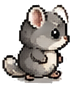
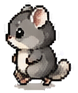
主人公の歩行スプライトの向きを修正し、どうぐ使用でなかまを選択できるようにする
- walk_left/right/upの各コマ画像が実際の向きと逆・不揃いだったため、
  正しい向き(左向き/右向き/背面)のファイル名に再配置(コード側のロジックは元々正しかった)
- フィールドメニューのどうぐ使用(回復アイテム・わざペレット)が主人公専用だったのを、
  手持ちのなかまがいる場合は対象を選べるモーダルを追加して選択制に変更

diff --git a/docs/app.js b/docs/app.js
@@ -1452,6 +1452,86 @@
   document.getElementById("battle-sub-back").addEventListener("click", closeSubMenu);
 
   // ---------------- Menu / Shop ----------------
+  function fieldPartyTargets() {
+    var heroStats = getMaxStats(state);
+    var list = [{
+      kind: "hero", id: "hero", name: state.name, level: state.level,
+      hp: state.hp, maxHp: heroStats.maxHp, mp: state.mp, maxMp: heroStats.maxMp, element: null
+    }];
+    state.activeParty.forEach(function (id) {
+      var ld = getCompanionLevelData(id);
+      var speciesId = currentCompanionSpeciesId(id, ld.level);
+      var mon = G.MONSTERS[speciesId];
+      var cstats = getCompanionMaxStats(id, ld.level);
+      list.push({
+        kind: "companion", id: id, name: mon.name, level: ld.level,
+        hp: ld.hp, maxHp: cstats.maxHp, mp: ld.mp, maxMp: cstats.maxMp, element: mon.element
+      });
+    });
+    return list;
+  }
+
+  function applyPotionItem(itemId, item, target) {
+    state.inventory[itemId] = Math.max(0, (state.inventory[itemId] || 0) - 1);
+    if (target.kind === "hero") {
+      if (item.kind === "hp") state.hp = Math.min(target.maxHp, state.hp + item.amount);
+      else if (item.kind === "mp") state.mp = Math.min(target.maxMp, state.mp + item.amount);
+      else if (item.kind === "full") { state.hp = target.maxHp; state.mp = target.maxMp; }
+    } else {
+      var ld = getCompanionLevelData(target.id);
+      if (item.kind === "hp") ld.hp = Math.min(target.maxHp, ld.hp + item.amount);
+      else if (item.kind === "mp") ld.mp = Math.min(target.maxMp, ld.mp + item.amount);
+      else if (item.kind === "full") { ld.hp = target.maxHp; ld.mp = target.maxMp; }
+    }
+    save(state);
+    showToast(target.name + " は " + item.name + " を つかった!");
+    updateHud();
+    refreshMenuData();
+  }
+
+  function applyPelletItem(itemId, item, target) {
+    var sk = G.SKILLS[item.skillId];
+    if (target.kind === "companion" && target.element !== item.element) {
+      showToast(target.name + " は この ペレットを たべられない…");
+      return;
+    }
+    var known = target.kind === "hero"
+      ? state.learnedSkills.indexOf(item.skillId) !== -1
+      : getCompanionSkills(target.id).indexOf(item.skillId) !== -1;
+    if (known) {
+      showToast(target.name + " は もう " + sk.name + " を おぼえている");
+      return;
+    }
+    state.inventory[itemId] = Math.max(0, (state.inventory[itemId] || 0) - 1);
+    if (target.kind === "hero") state.learnedSkills.push(item.skillId);
+    else getCompanionSkills(target.id).push(item.skillId);
+    save(state);
+    showToast(target.name + " は " + sk.name + " を おぼえた!");
+    updateHud();
+    refreshMenuData();
+  }
+
+  function openItemTargetPicker(itemId, item) {
+    var targets = fieldPartyTargets();
+    var applyFn = item.kind === "pellet" ? applyPelletItem : applyPotionItem;
+    if (targets.length <= 1) { applyFn(itemId, item, targets[0]); return; }
+    var listEl = document.getElementById("item-target-list");
+    listEl.innerHTML = "";
+    targets.forEach(function (t) {
+      var div = document.createElement("div");
+      div.className = "food-item";
+      div.innerHTML =
+        '<div class="food-info"><div><div class="food-name">' + t.name + " Lv" + t.level + '</div><div class="food-desc">HP ' + t.hp + "/" + t.maxHp + " ・ MP " + t.mp + "/" + t.maxMp + '</div></div></div>' +
+        "<button>" + (item.kind === "pellet" ? "たべさせる" : "つかう") + "</button>";
+      div.querySelector("button").addEventListener("click", function () {
+        closeModal("item-target-modal");
+        applyFn(itemId, item, t);
+      });
+      listEl.appendChild(div);
+    });
+    openModal("item-target-modal");
+  }
+
   function renderInventoryList(container) {
     container.innerHTML = "";
     G.USABLE_ITEM_IDS.forEach(function (id) {
@@ -1465,29 +1545,7 @@
       div.querySelector("button").addEventListener("click", function () {
         if (count <= 0) return;
         if (item.kind === "ball") { showToast("せんとうちゅうに つかってね"); return; }
-        if (item.kind === "pellet") {
-          var sk = G.SKILLS[item.skillId];
-          if (state.learnedSkills.indexOf(item.skillId) !== -1) {
-            showToast(state.name + " は もう " + sk.name + " を おぼえている");
-            return;
-          }
-          state.inventory[id] -= 1;
-          state.learnedSkills.push(item.skillId);
-          save(state);
-          showToast(state.name + " は " + sk.name + " を おぼえた!");
-          updateHud();
-          refreshMenuData();
-          return;
-        }
-        var stats = getMaxStats(state);
-        state.inventory[id] -= 1;
-        if (item.kind === "hp") state.hp = Math.min(stats.maxHp, state.hp + item.amount);
-        else if (item.kind === "mp") state.mp = Math.min(stats.maxMp, state.mp + item.amount);
-        else if (item.kind === "full") { state.hp = stats.maxHp; state.mp = stats.maxMp; }
-        save(state);
-        showToast(item.name + " を つかった!");
-        updateHud();
-        refreshMenuData();
+        openItemTargetPicker(id, item);
       });
       container.appendChild(div);
     });

diff --git a/docs/index.html b/docs/index.html
@@ -205,6 +205,15 @@
     </div>
   </div>
 
+  <!-- ===== どうぐ 対象選択モーダル ===== -->
+  <div id="item-target-modal" class="modal hidden">
+    <div class="modal-card">
+      <h2>🎒 だれに つかう?</h2>
+      <div id="item-target-list" class="food-list"></div>
+      <button class="btn btn-secondary modal-close">やめる</button>
+    </div>
+  </div>
+
   <!-- ===== スロット上書き確認モーダル ===== -->
   <div id="slot-overwrite-modal" class="modal hidden">
     <div class="modal-card">

diff --git a/README.md b/README.md
@@ -17,6 +17,11 @@
   各カテゴリをタップすると該当画面だけが表示され、「← もどる」でカテゴリ選択に戻る。わざ・なかま・
   バッジのボタンには件数(習得数/編成数・獲得バッジ数)を表示。どうぐ画面でアイテムを使っても
   カテゴリ選択には戻らず、その場で一覧が更新される
+- どうぐ画面で回復アイテム・わざペレットの「つかう/たべる」を押すと、手持ちのなかま(activeParty)が
+  1体以上いる場合は「だれに つかう?」の対象選択モーダルが出る(2026-07-30〜)。主人公+手持ちの
+  なかま全員をHP/MP付きで一覧表示し、選んだ対象にだけ効果を適用する。なかまが0体なら選択を挟まず
+  主人公に直接適用(従来どおり)。ペレットは属性が合わないなかまには使えない(戦闘中の食べさせ処理と
+  同じ制限をフィールドメニューにも適用)
 - スターター選択(グレーチンチラ、しろは近日公開)→ 名前入力 → フィールド開始
 - 画面下部のD-padでマス目移動。草むらでランダムエンカウント、NPCに隣接して「はなす」で会話。
   キーボードにも対応(矢印キー/WASDで移動、Enter・スペース・Zで「はなす」/会話送り、Escape・Xで
@@ -311,6 +316,9 @@
 - `docs/assets/hero/walk_*.webp` : 主人公「チモ」のフィールド移動用ドット絵(2026-07-30〜)。下/左/右/上
   の4方向 × 各4コマの歩行アニメーションで、歩くたびにコマが切り替わる。進化段階によらずマップでは
   常にこのドット絵を使用し、戦闘・メニューのなかまカードでのみ進化後のイラストに切り替わる
+  (2026-07-30: 生成直後の素材は左右が逆向き・上向きの2コマが横向き絵のままになっていたため、
+  実際の向きに合わせて左/右/上の12枚を正しい方向のファイル名に再配置し直した。コード側
+  [app.js](docs/app.js)・[data.js](docs/data.js)の方向判定ロジック自体は元から正しかった)
 - `docs/assets/items/*.webp` : どうぐ・お金のアイコン(HUD/メニュー/ショップ/戦闘で使用)
 - `docs/assets/npc/npc_herbalist.webp` : 村の追加NPC「くすし」
 - `docs/assets/tiles/deco_well.webp` : 村の井戸(装飾、当たり判定なし)
